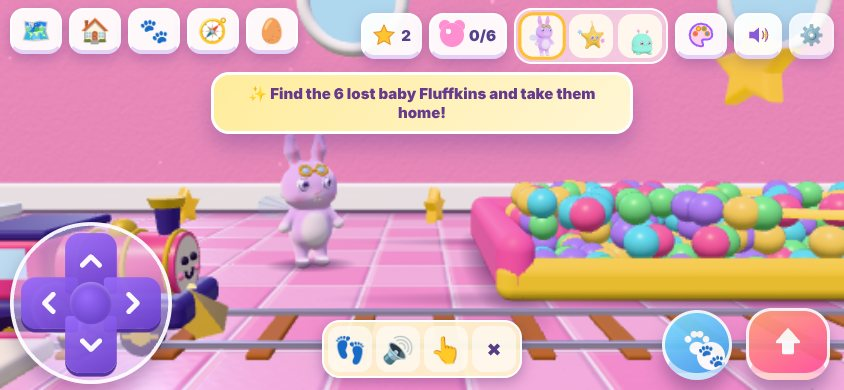
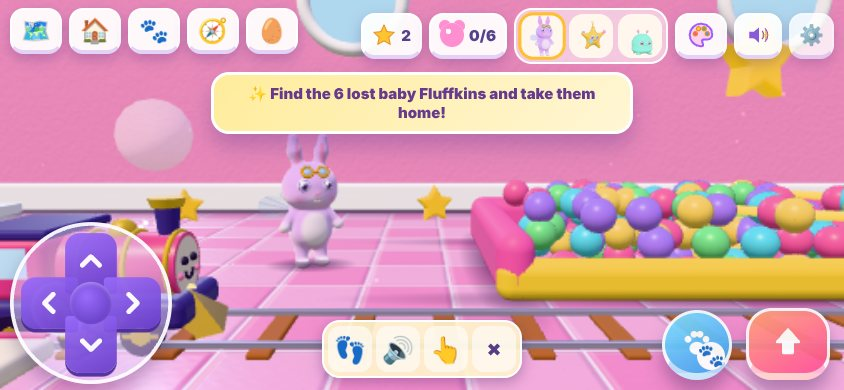
WIP build 55 source (rippling ponds; not built or tested yet) and build 54 smoke-run screenshots (in progress)
index.html is still build 54: do not rebuild while the smoke test runs.

Claude-Session: https://claude.ai/code/session_01CGjfLED7e1ENqWHZ5DqLbw

diff --git a/discovery-world/3d/src/expansion.js b/discovery-world/3d/src/expansion.js
@@ -11,7 +11,7 @@
 // ===================================================================
 import { makeBatch, rocketParts, rocketGlass, shinyMat } from './spacekit.js';
 import * as THREE from 'three';
-import { toyHouses, makeSea, crates, hayBales, boulders } from './earthkit.js';
+import { toyHouses, makeSea, crates, hayBales, boulders, makePond } from './earthkit.js';
 import { makeToyModel } from './toy-models.js';
 
 export const EXP = { x0: 424, x1: 940, xMin: -830 }; // (build 49: Balloon Hills, past the pier) // (build 43: both ends now lead up stairs into the sky) // (build 30: the world also grows to the LEFT of the Playhouse; build 35: on to the farm)
@@ -331,11 +331,11 @@ export function initExpansion(G, api) {
     // greenhouse domes behind
     () => { for (const x of [682, 724, 766]) { const d = new THREE.Mesh(new THREE.SphereGeometry(5, 24, 12, 0, Math.PI * 2, 0, Math.PI / 2), mat('#d9f6ff', { r: .1, cc: .6 })); d.position.set(x, 0, -11); d.scale.y = .8; c.add(d); } },
     // a colour-changing pond: tap the water, it changes colour, a fish jumps
-    () => { const cols = [['blue', '#3b82f6'], ['pink', '#ff7ac8'], ['green', '#3cc45a'], ['purple', '#9b5cf6'], ['orange', '#ff9a1f'], ['yellow', '#ffd23f']]; const m = mat('#3b82f6', { r: .15, cc: .6 }).clone();
-      const pond = new THREE.Mesh(new THREE.CylinderGeometry(3, 3, .08, 40), m); pond.position.set(684, .03, -3.6); c.add(pond); const rim = new THREE.Mesh(new THREE.TorusGeometry(3, .25, 10, 40), mat('#b5ab9e', { r: .8 })); rim.rotation.x = Math.PI / 2; rim.position.set(684, .1, -3.6); c.add(rim);
+    () => { const cols = [['blue', '#3b82f6'], ['pink', '#ff7ac8'], ['green', '#3cc45a'], ['purple', '#9b5cf6'], ['orange', '#ff9a1f'], ['yellow', '#ffd23f']]; const pw = makePond(3, 3, '#3b82f6'), m = pw.mat; /* (build 55: the pond ripples) */
+      const pond = pw.mesh; pond.position.set(684, .075, -3.6); c.add(pond); const rim = new THREE.Mesh(new THREE.TorusGeometry(3, .25, 10, 40), mat('#b5ab9e', { r: .8 })); rim.rotation.x = Math.PI / 2; rim.position.set(684, .1, -3.6); c.add(rim);
       const fish = c.toy('🐟', .9, 684, -1, -3.6); let k = 0, jt = 9;
       c.tap(pond, () => { k = (k + 1) % cols.length; m.color.set(cols[k][1]); c.say(`🎨 The pond is ${cols[k][0]}!`); jt = 0; Sound.tone(500 + k * 60, .3, 'sine', .05, 1.3); c.burst(684, .4, -3.6, [cols[k][1], '#fff'], 12, 2); c.disc('pond', '🎨 A magic pond! Tap it to change its colour!'); }, 684);
-      return dt => { jt += dt; const j = Math.min(1, jt / 1.2); fish.position.set(682.5 + j * 3, j < 1 ? Math.sin(j * Math.PI) * 2 : -1, -3.6); }; },
+      return (dt, t) => { if (Math.abs(P.x - 684) < 45) pw.update(t, Math.max(0, 1 - jt / 1.5)); jt += dt; const j = Math.min(1, jt / 1.2); fish.position.set(682.5 + j * 3, j < 1 ? Math.sin(j * Math.PI) * 2 : -1, -3.6); }; },
     // the bubble fountain
     () => { c.cyl(698, 0, -2.2, .8, 1, .7, '#9fe6ff'); const sp = c.cyl(698, .7, -2.2, .15, .2, 1, '#ffffff'); const bubbles = [];
       c.tap(sp.parent ? sp : sp, () => { for (let i = 0; i < 10; i++) { const b = c.toy('🫧', .5 + Math.random() * .5, 698, 1.8, -2.2); b.userData = { vx: (Math.random() - .5) * 1.6, vy: 1 + Math.random() * 1.5, t: 0 }; bubbles.push(b); } Sound.whoosh ? Sound.whoosh() : Sound.click(); c.say('🫧 Bubbles!'); c.disc('fountain', '🫧 The bubble fountain! Tap it for bubbles!'); }, 698);
@@ -625,9 +625,9 @@ export function initExpansion(G, api) {
       let fast = 0; c.tap(hub, () => { fast = 5; Sound.whoosh ? Sound.whoosh() : Sound.click(); c.say('🌬 Whoosh! The windmill spins in the wind!'); c.disc('windmill', '🌬 Tap the windmill to make it spin!'); }, -503);
       return dt => { fast = Math.max(0, fast - dt); hub.rotation.z += dt * (.4 + fast * 1.6); }; },
     // the duck pond: tap the mother duck and her ducklings swim after her in a line (one, two, three!)
-    () => { const pond = c.cyl(-514, 0, -3.8, 2.6, 2.6, .05, '#4fb3ff', { r: .15, cc: .6 }); pond.scale.z = .6; const mom = c.toy('🦆', 1, -514, .45, -3.8); const kids = [0, 1, 2].map(() => c.toy('🐤', .5, -514, .3, -3.8)); let swim = 0;
+    () => { const dw = makePond(2.6, 1.56, '#4fb3ff'), pond = dw.mesh; pond.position.set(-514, .05, -3.8); c.add(pond); /* (build 55: the duck pond ripples) */ const mom = c.toy('🦆', 1, -514, .45, -3.8); const kids = [0, 1, 2].map(() => c.toy('🐤', .5, -514, .3, -3.8)); let swim = 0;
       c.tap(mom, () => { swim = 8; Sound.tone(700, .1, 'square', .02, .7); Sound.tone(650, .1, 'square', .02, .7, .12); c.say('🦆 Quack quack! Follow me! One, two, three ducklings!'); c.disc('ducks', '🦆 Tap the mother duck and the ducklings follow her!'); }, -514); c.tap(pond, () => { c.say('💧 Splash!'); Sound.pop ? Sound.pop() : Sound.click(); c.burst(-514, .3, -3.6, ['#9fdcff', '#fff'], 10, 2); });
-      return (dt, t) => { swim = Math.max(0, swim - dt); const sp = swim > 0 ? 1.3 : .3, a = t * sp; mom.position.set(-514 + Math.cos(a) * 1.7, .45, -3.8 + Math.sin(a) * .9); kids.forEach((k2, i) => { const b = a - (i + 1) * .45; k2.position.set(-514 + Math.cos(b) * 1.7, .3 + Math.abs(Math.sin(t * 6 + i)) * .05, -3.8 + Math.sin(b) * .9); }); }; },
+      return (dt, t) => { if (Math.abs(P.x + 514) < 45) dw.update(t, swim > 0 ? .5 : 0); swim = Math.max(0, swim - dt); const sp = swim > 0 ? 1.3 : .3, a = t * sp; mom.position.set(-514 + Math.cos(a) * 1.7, .45, -3.8 + Math.sin(a) * .9); kids.forEach((k2, i) => { const b = a - (i + 1) * .45; k2.position.set(-514 + Math.cos(b) * 1.7, .3 + Math.abs(Math.sin(t * 6 + i)) * .05, -3.8 + Math.sin(b) * .9); }); }; },
     // the toy tractor: tap it and it drives across the field and back (vroom!)
     () => { const tr = new THREE.Group(); tr.position.set(-524, 0, -5); c.add(tr); const bd = new THREE.Mesh(W.rbox(2, .9, 1.2, .15), mat('#3cc46e', { r: .4 })); bd.position.y = .9; bd.castShadow = true; tr.add(bd); const cab = new THREE.Mesh(W.rbox(.9, 1, 1.1, .1), mat('#ffd23f', { r: .4 })); cab.position.set(-.4, 1.75, 0); tr.add(cab);
       const wheels = []; for (const [x, r] of [[-.6, .6], [.7, .38]]) for (const z of [-.65, .65]) { const w = new THREE.Mesh(new THREE.CylinderGeometry(r, r, .3, 16), mat('#2b2d42', { r: .9 })); w.rotation.x = Math.PI / 2; w.position.set(x, r, z); tr.add(w); wheels.push(w); }

diff --git a/discovery-world/3d/src/earthkit.js b/discovery-world/3d/src/earthkit.js
@@ -109,3 +109,18 @@ export function boulders(list) {
     b.put(g, x, y + h / 2, z, (px, py, pz, nx, ny, nz, o) => { const n = noise2(px * 2.2 + pz, py * 2.2 + pz * 2); o.set('#8f877c').lerp(col('#b9b0a2'), n).multiplyScalar(.8 + .25 * Math.max(0, ny)); o.lerp(col('#7fb85a'), sstep(.75, .98, ny) * sstep(.35, .7, noise2(px * 1.3, pz * 1.3 + 4)) * .8); if (Math.abs(((py * 1.7 + n) % 1) - .5) < .03 && ny < .5) o.multiplyScalar(.8); }); });
   return finish(b, 'boulders', .9);
 }
+
+// ---------- (build 55) a pond that ripples: rings spreading from the middle, pale at the edge and deeper in the middle ----------
+/** rx × rz metres. The water's colour is the material's colour (so a pond can change colour); returns { mesh, mat, update(t) } */
+export function makePond(rx, rz, color, rings = 9, seg = 36) {
+  const g = new THREE.RingGeometry(.0001, 1, seg, rings); g.rotateX(-Math.PI / 2); g.deleteAttribute('uv');
+  const p = g.attributes.position, n = g.attributes.normal, cols = new Float32Array(p.count * 3), rr = new Float32Array(p.count);
+  for (let i = 0; i < p.count; i++) { const r = Math.hypot(p.getX(i), p.getZ(i)); rr[i] = r; const v = 1.18 - sstep(0, .9, 1 - r) * .36 + (r > .93 ? .25 : 0); cols[i * 3] = cols[i * 3 + 1] = cols[i * 3 + 2] = v; p.setX(i, p.getX(i) * rx); p.setZ(i, p.getZ(i) * rz); }
+  g.setAttribute('color', new THREE.BufferAttribute(cols, 3));
+  const mat = Object.assign(shinyMat().clone(), { roughness: .1, metalness: .2 }); mat.color.set(color);
+  const mesh = new THREE.Mesh(g, mat); mesh.receiveShadow = true; mesh.userData.dynamic = true; const pa = p.array, na = n.array;
+  return { mesh, mat, update(t, kick = 0) {
+    for (let i = 0, k = 0; i < p.count; i++, k += 3) { const r = rr[i], a = (.012 + kick * .05) * (1 - r) * (r > .02 ? 1 : 0), ph = r * 15 - t * 2.4, s = a * Math.cos(ph) * 15 * 2.5, x = pa[k] / rx, z = pa[k + 2] / rz, l = 1 / Math.sqrt(s * s + 1), q = r > .001 ? 1 / r : 0;
+      pa[k + 1] = a * Math.sin(ph); na[k] = -s * x * q * l; na[k + 1] = l; na[k + 2] = -s * z * q * l; }
+    p.needsUpdate = true; n.needsUpdate = true; } };
+}
